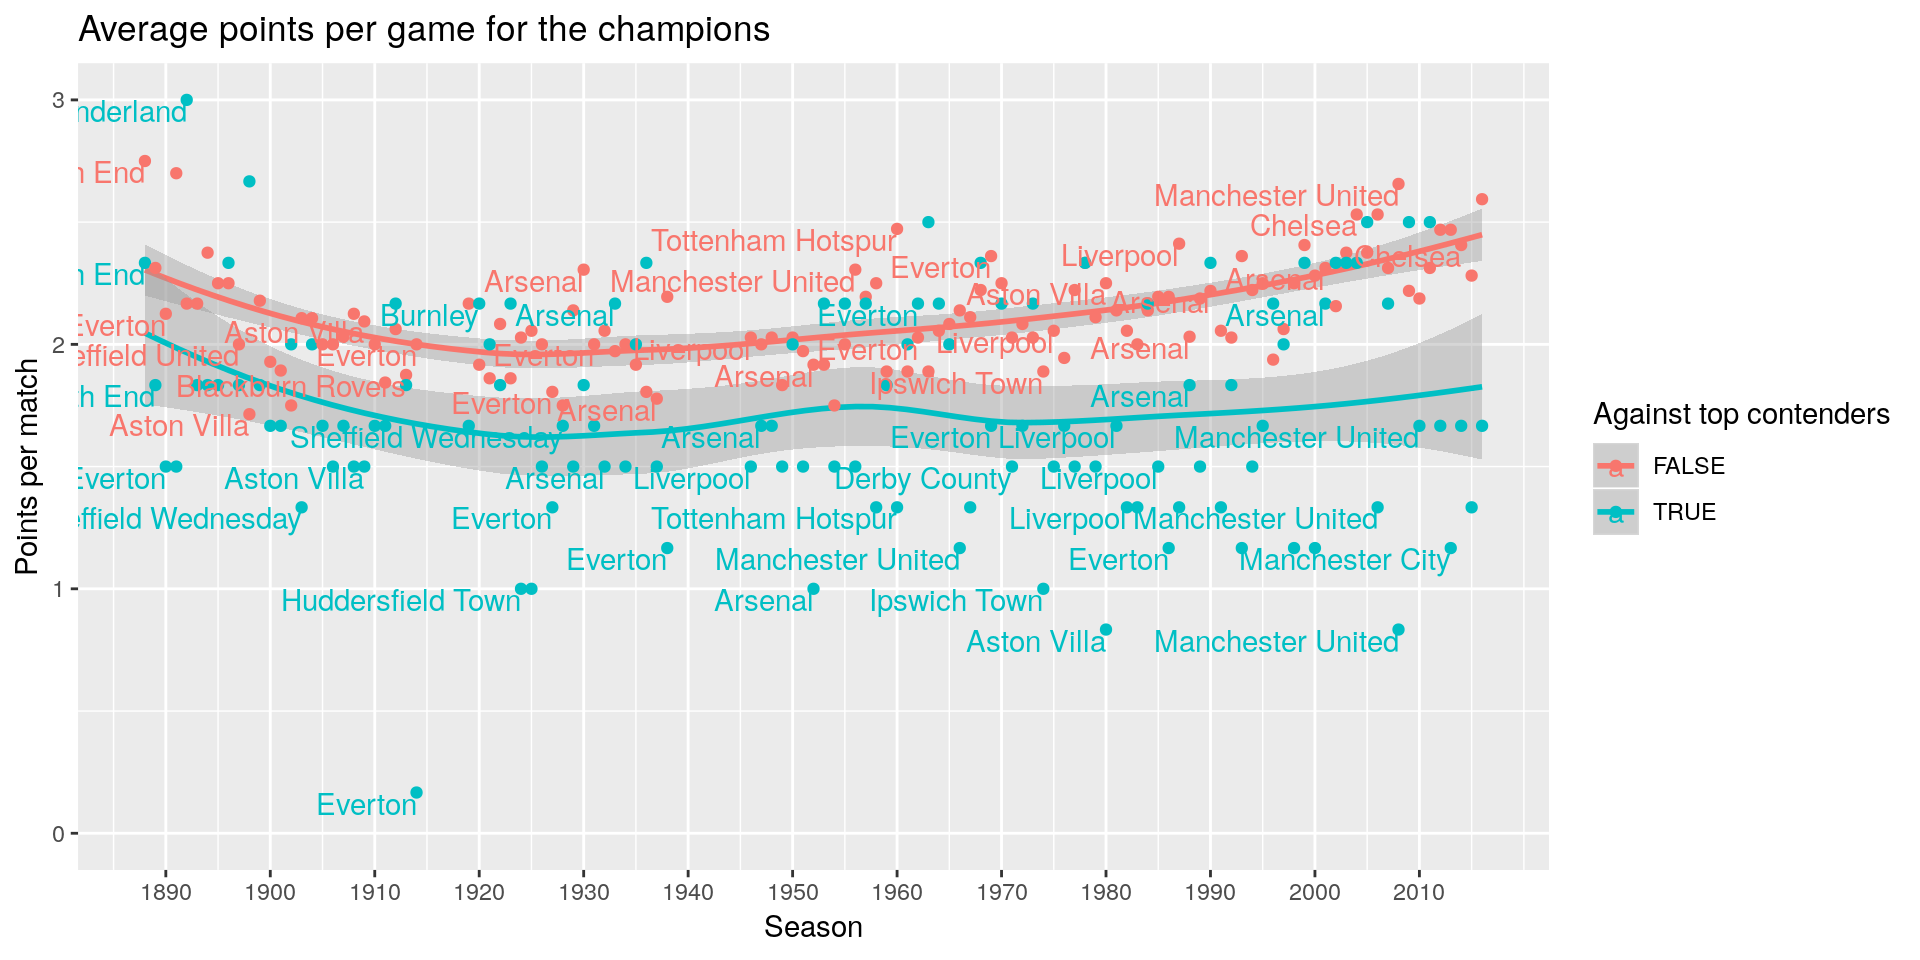
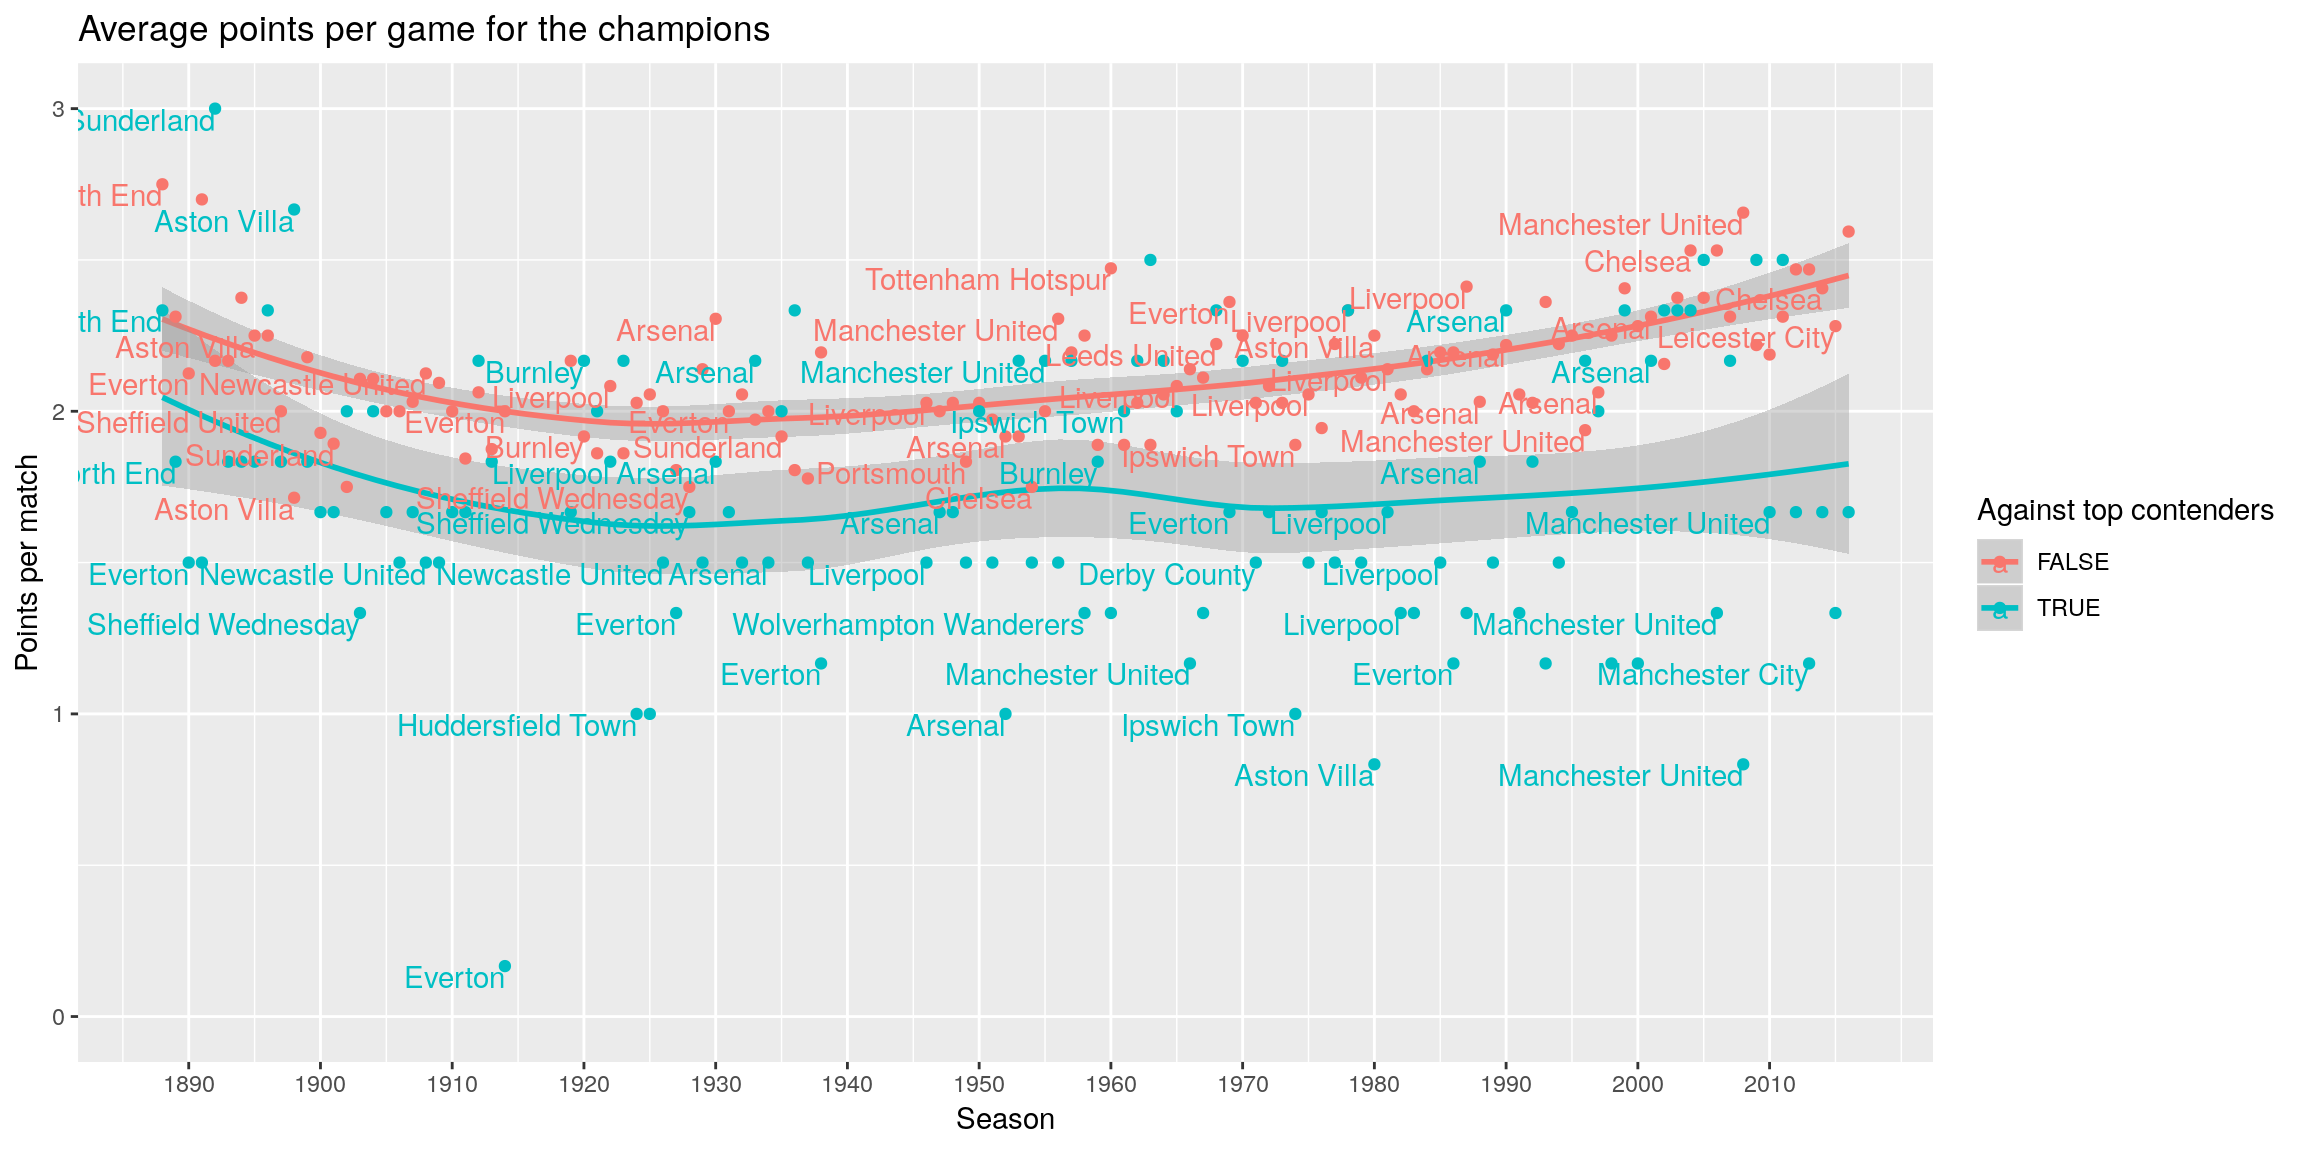
add soccer

diff --git a/content/post/2019-01-17-epl-soccer.html b/content/post/2019-01-17-epl-soccer.html
@@ -275,7 +275,7 @@ champs_points %&gt;%
        title = &quot;Average points per game for the champions&quot;, 
        color = &quot;Against top contenders&quot;)</code></pre>
 <pre><code>## `geom_smooth()` using method = &#39;loess&#39; and formula &#39;y ~ x&#39;</code></pre>
-<p><img src="/post/2019-01-17-epl-soccer_files/figure-html/fig1-1.png" width="960" style="display: block; margin: auto;" /></p>
+<p><img src="/post/2019-01-17-epl-soccer_files/figure-html/fig1-1.png" width="1152" style="display: block; margin: auto;" /></p>
 <p>We see most cases points are higher if opponents are not top 4. But there are exceptions. Everton in 1919, Aston Villa in 1980 and Manchester United in 2008 have average points lower than 1, meaning on average they lose to the other top 3 opponents, but the winning percentage is much higher against other opponents.</p>
 <p>Now we label those teams who have a higher winning percentage against other top 3 teams vs. lower ranked teams:</p>
 <pre class="r"><code>champs_points %&gt;%
@@ -292,7 +292,7 @@ champs_points %&gt;%
        y = &quot;Points per match&quot;,
        title = &quot;Average points per game for the champions&quot;, 
        color = &quot;Score more against top contenders&quot;)</code></pre>
-<p><img src="/post/2019-01-17-epl-soccer_files/figure-html/fig2-1.png" width="960" style="display: block; margin: auto;" /></p>
+<p><img src="/post/2019-01-17-epl-soccer_files/figure-html/fig2-1.png" width="1152" style="display: block; margin: auto;" /></p>
 <p>There are not so many champions won more points from top contenders than other teams on average, but there are a few. Sunderland had won all games against top 4 contenders in 1892.</p>
 <p>Overall, a team wins championship by winning bother situations. When they play against top contenders, at least they have 50% chance of winning. The expected score will be 4/3 if we consider equal chance of winning, losing, or tieing. Any champion below 4/3 against top contenders is under-performing. But acationally they won championships after losing to top contenders. Such as Mancheseter City in 2008.</p>
 <p>Now let’s see how the toughness of a match impact the probability of winning.</p>

diff --git a/public/2019/01/17/soccer-epl/index.html b/public/2019/01/17/soccer-epl/index.html
@@ -328,7 +328,7 @@ champs_points %&gt;%
        title = &quot;Average points per game for the champions&quot;, 
        color = &quot;Against top contenders&quot;)</code></pre>
 <pre><code>## `geom_smooth()` using method = &#39;loess&#39; and formula &#39;y ~ x&#39;</code></pre>
-<p><img src="/post/2019-01-17-epl-soccer_files/figure-html/fig1-1.png" width="960" style="display: block; margin: auto;" /></p>
+<p><img src="/post/2019-01-17-epl-soccer_files/figure-html/fig1-1.png" width="1152" style="display: block; margin: auto;" /></p>
 <p>We see most cases points are higher if opponents are not top 4. But there are exceptions. Everton in 1919, Aston Villa in 1980 and Manchester United in 2008 have average points lower than 1, meaning on average they lose to the other top 3 opponents, but the winning percentage is much higher against other opponents.</p>
 <p>Now we label those teams who have a higher winning percentage against other top 3 teams vs. lower ranked teams:</p>
 <pre class="r"><code>champs_points %&gt;%
@@ -345,7 +345,7 @@ champs_points %&gt;%
        y = &quot;Points per match&quot;,
        title = &quot;Average points per game for the champions&quot;, 
        color = &quot;Score more against top contenders&quot;)</code></pre>
-<p><img src="/post/2019-01-17-epl-soccer_files/figure-html/fig2-1.png" width="960" style="display: block; margin: auto;" /></p>
+<p><img src="/post/2019-01-17-epl-soccer_files/figure-html/fig2-1.png" width="1152" style="display: block; margin: auto;" /></p>
 <p>There are not so many champions won more points from top contenders than other teams on average, but there are a few. Sunderland had won all games against top 4 contenders in 1892.</p>
 <p>Overall, a team wins championship by winning bother situations. When they play against top contenders, at least they have 50% chance of winning. The expected score will be 4/3 if we consider equal chance of winning, losing, or tieing. Any champion below 4/3 against top contenders is under-performing. But acationally they won championships after losing to top contenders. Such as Mancheseter City in 2008.</p>
 <p>Now let’s see how the toughness of a match impact the probability of winning.</p>
